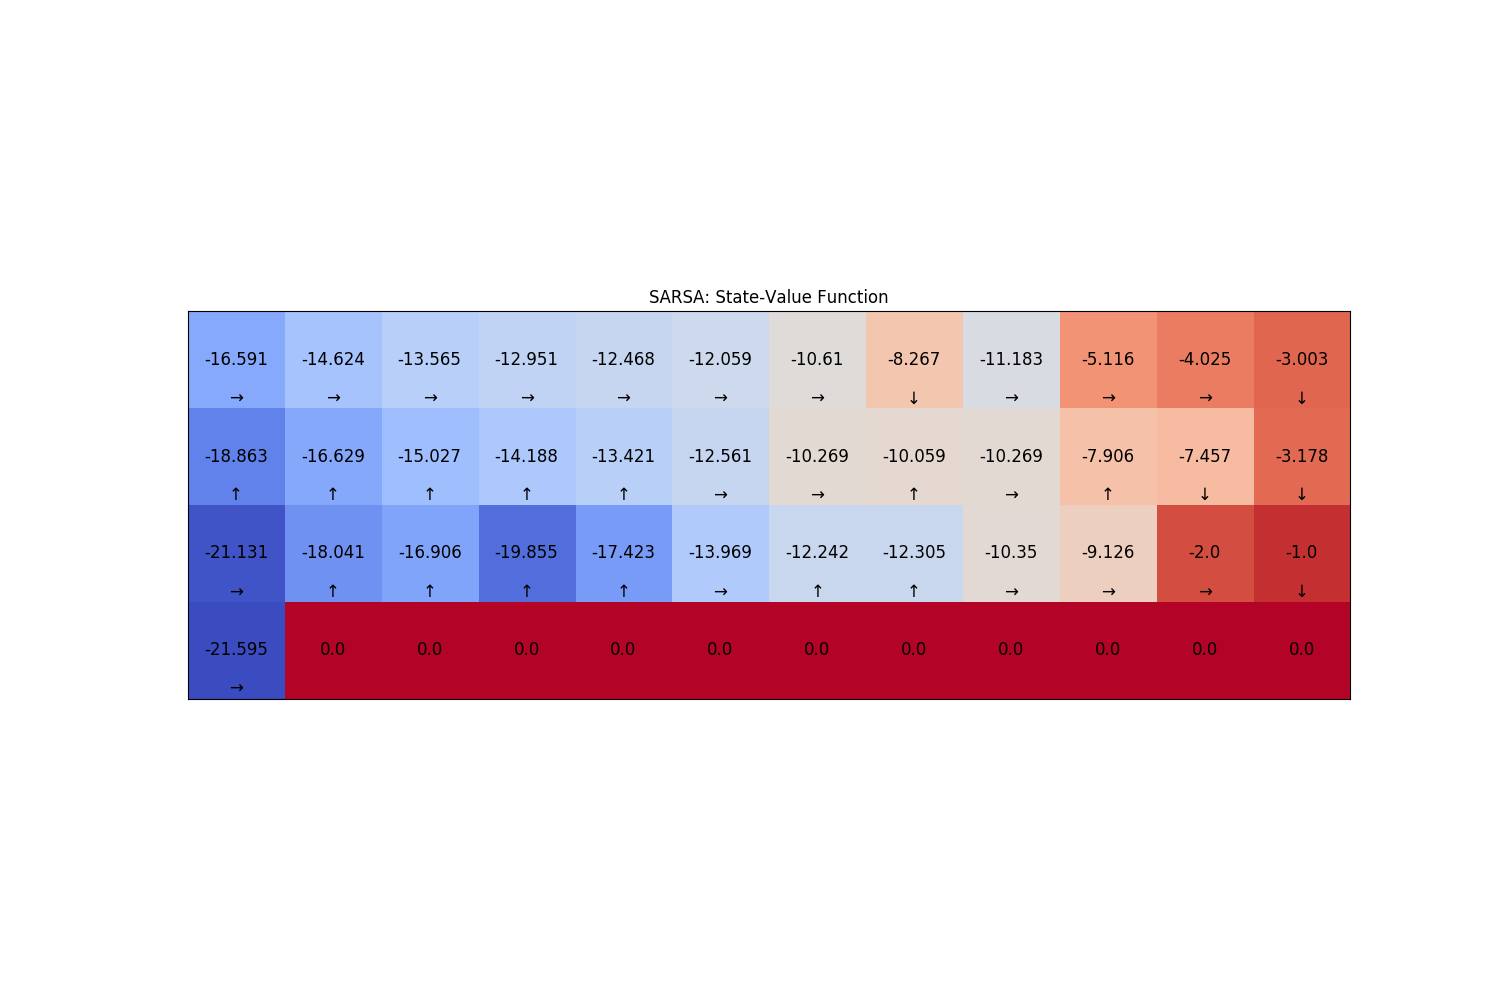
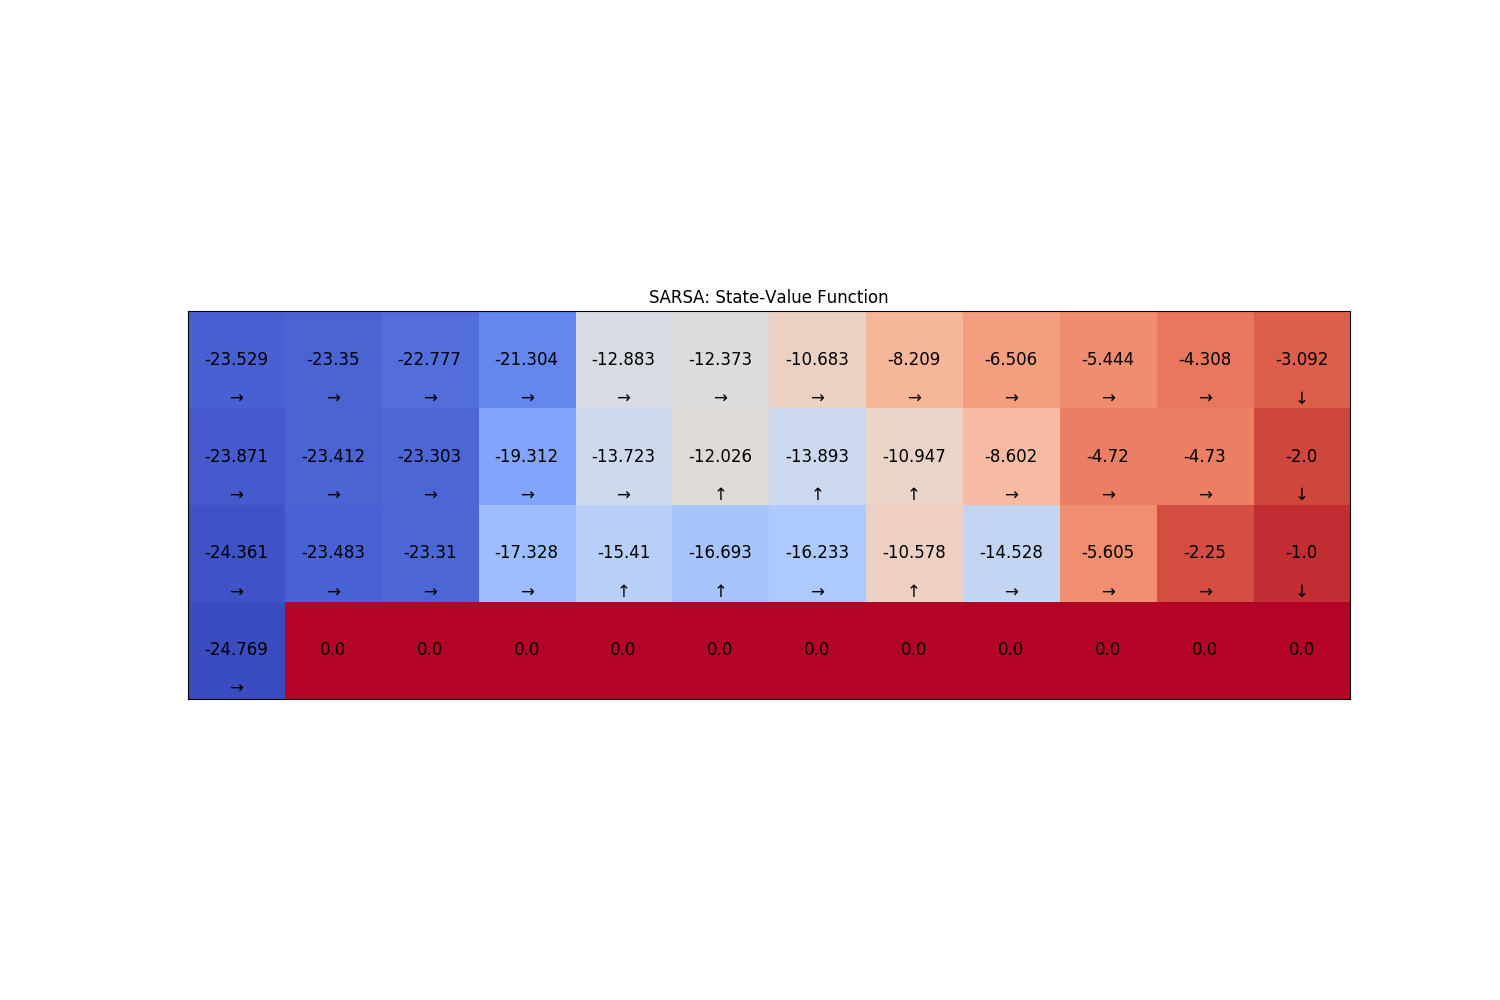
Fixed implementations to break ties.

diff --git a/lab_2.py b/lab_2.py
@@ -276,7 +276,6 @@ def mc_control_epsilon_greedy(env, num_episodes, discount_factor=1.0, epsilon=0.
         state = env.reset()
         episode = []
         for j in range(max_steps_per_episode):
-            # action = epsilon_greedy(policy, state)
             probs = policy(state)
             action = np.random.choice(np.arange(len(probs)), p=probs)
             next_state, reward, done, info = env.step(action)
@@ -303,6 +302,7 @@ def mc_control_epsilon_greedy(env, num_episodes, discount_factor=1.0, epsilon=0.
             Q[state][action] = returns[state_action_pair] / \
                 returns_count[state_action_pair]
 
+            # Update Policy
             policy = make_epsilon_greedy_policy(Q, epsilon, env.action_space.n)
 
     return Q, policy
@@ -326,17 +326,6 @@ def SARSA(env, num_episodes, discount_factor=1.0, epsilon=0.1, alpha=0.5, print_
         Q is the optimal action-value function, a dictionary mapping state -> action values.
         stats is an EpisodeStats object with two numpy arrays for episode_lengths and episode_rewards.
     """
-    def epsilon_greedy(policy, state):
-        action_prob = policy(state)
-        # Epsilon greedy
-        r = np.random.uniform(0, 1)
-        if(r > epsilon):
-            action = np.argmax(action_prob)
-        else:
-            action = np.random.randint(
-                low=0, high=env.action_space.n)
-        return action
-
     # A nested dictionary that maps state -> (action -> action-value).
     Q = defaultdict(lambda: np.zeros(env.action_space.n))
 
@@ -353,14 +342,12 @@ def SARSA(env, num_episodes, discount_factor=1.0, epsilon=0.1, alpha=0.5, print_
             print("\rEpisode {}/{}.".format(i_episode + 1, num_episodes), end="")
 
         state = env.reset()
-        # action = epsilon_greedy(policy, state)
         action_probs = policy(state)
         action = np.random.choice(
             np.arange(len(action_probs)), p=action_probs)
 
         for j in itertools.count():
             next_state, reward, done, info = env.step(action)
-            # next_action = epsilon_greedy(policy, next_state)
             next_action_probs = policy(next_state)
             next_action = np.random.choice(
                 np.arange(len(next_action_probs)), p=next_action_probs)
@@ -370,7 +357,6 @@ def SARSA(env, num_episodes, discount_factor=1.0, epsilon=0.1, alpha=0.5, print_
             stats.episode_lengths[i_episode] = j
 
             # TD update
-            # best_action_next_state = np.argmax(Q[next_state])
             Q[state][action] = Q[state][action] + alpha * \
                 (reward + discount_factor *
                  Q[next_state][next_action] - Q[state][action])
@@ -379,8 +365,6 @@ def SARSA(env, num_episodes, discount_factor=1.0, epsilon=0.1, alpha=0.5, print_
             if done:
                 break
     return Q, stats
-
-    # raise NotImplementedError
 
 
 def q_learning(env, num_episodes, discount_factor=1.0, epsilon=0.05, alpha=0.5, print_=False):
@@ -402,17 +386,6 @@ def q_learning(env, num_episodes, discount_factor=1.0, epsilon=0.05, alpha=0.5, 
         stats is an EpisodeStats object with two numpy arrays for episode_lengths and episode_rewards.
     """
 
-    def epsilon_greedy(policy, state):
-        action_prob = policy(state)
-        # Epsilon greedy
-        r = np.random.uniform(0, 1)
-        if(r > epsilon):
-            action = np.argmax(action_prob)
-        else:
-            action = np.random.randint(
-                low=0, high=env.action_space.n)
-        return action
-
     # A nested dictionary that maps state -> (action -> action-value).
     Q = defaultdict(lambda: np.zeros(env.action_space.n))
 
@@ -430,7 +403,6 @@ def q_learning(env, num_episodes, discount_factor=1.0, epsilon=0.05, alpha=0.5, 
 
         state = env.reset()
         for j in itertools.count():
-            # action = epsilon_greedy(policy, state)
             # Step
             action_probs = policy(state)
             action = np.random.choice(
@@ -443,11 +415,13 @@ def q_learning(env, num_episodes, discount_factor=1.0, epsilon=0.05, alpha=0.5, 
             stats.episode_lengths[i_episode] = j
 
             # TD update
-            best_action_next_state = np.argmax(Q[next_state])
+            best_action_next_state = argmax(Q[next_state])
             Q[state][action] = Q[state][action] + alpha * \
                 (reward + discount_factor *
                  Q[next_state][best_action_next_state] - Q[state][action])
             state = next_state
+
+            policy = make_epsilon_greedy_policy(Q, epsilon, env.action_space.n)
             if done:
                 break
     return Q, stats
